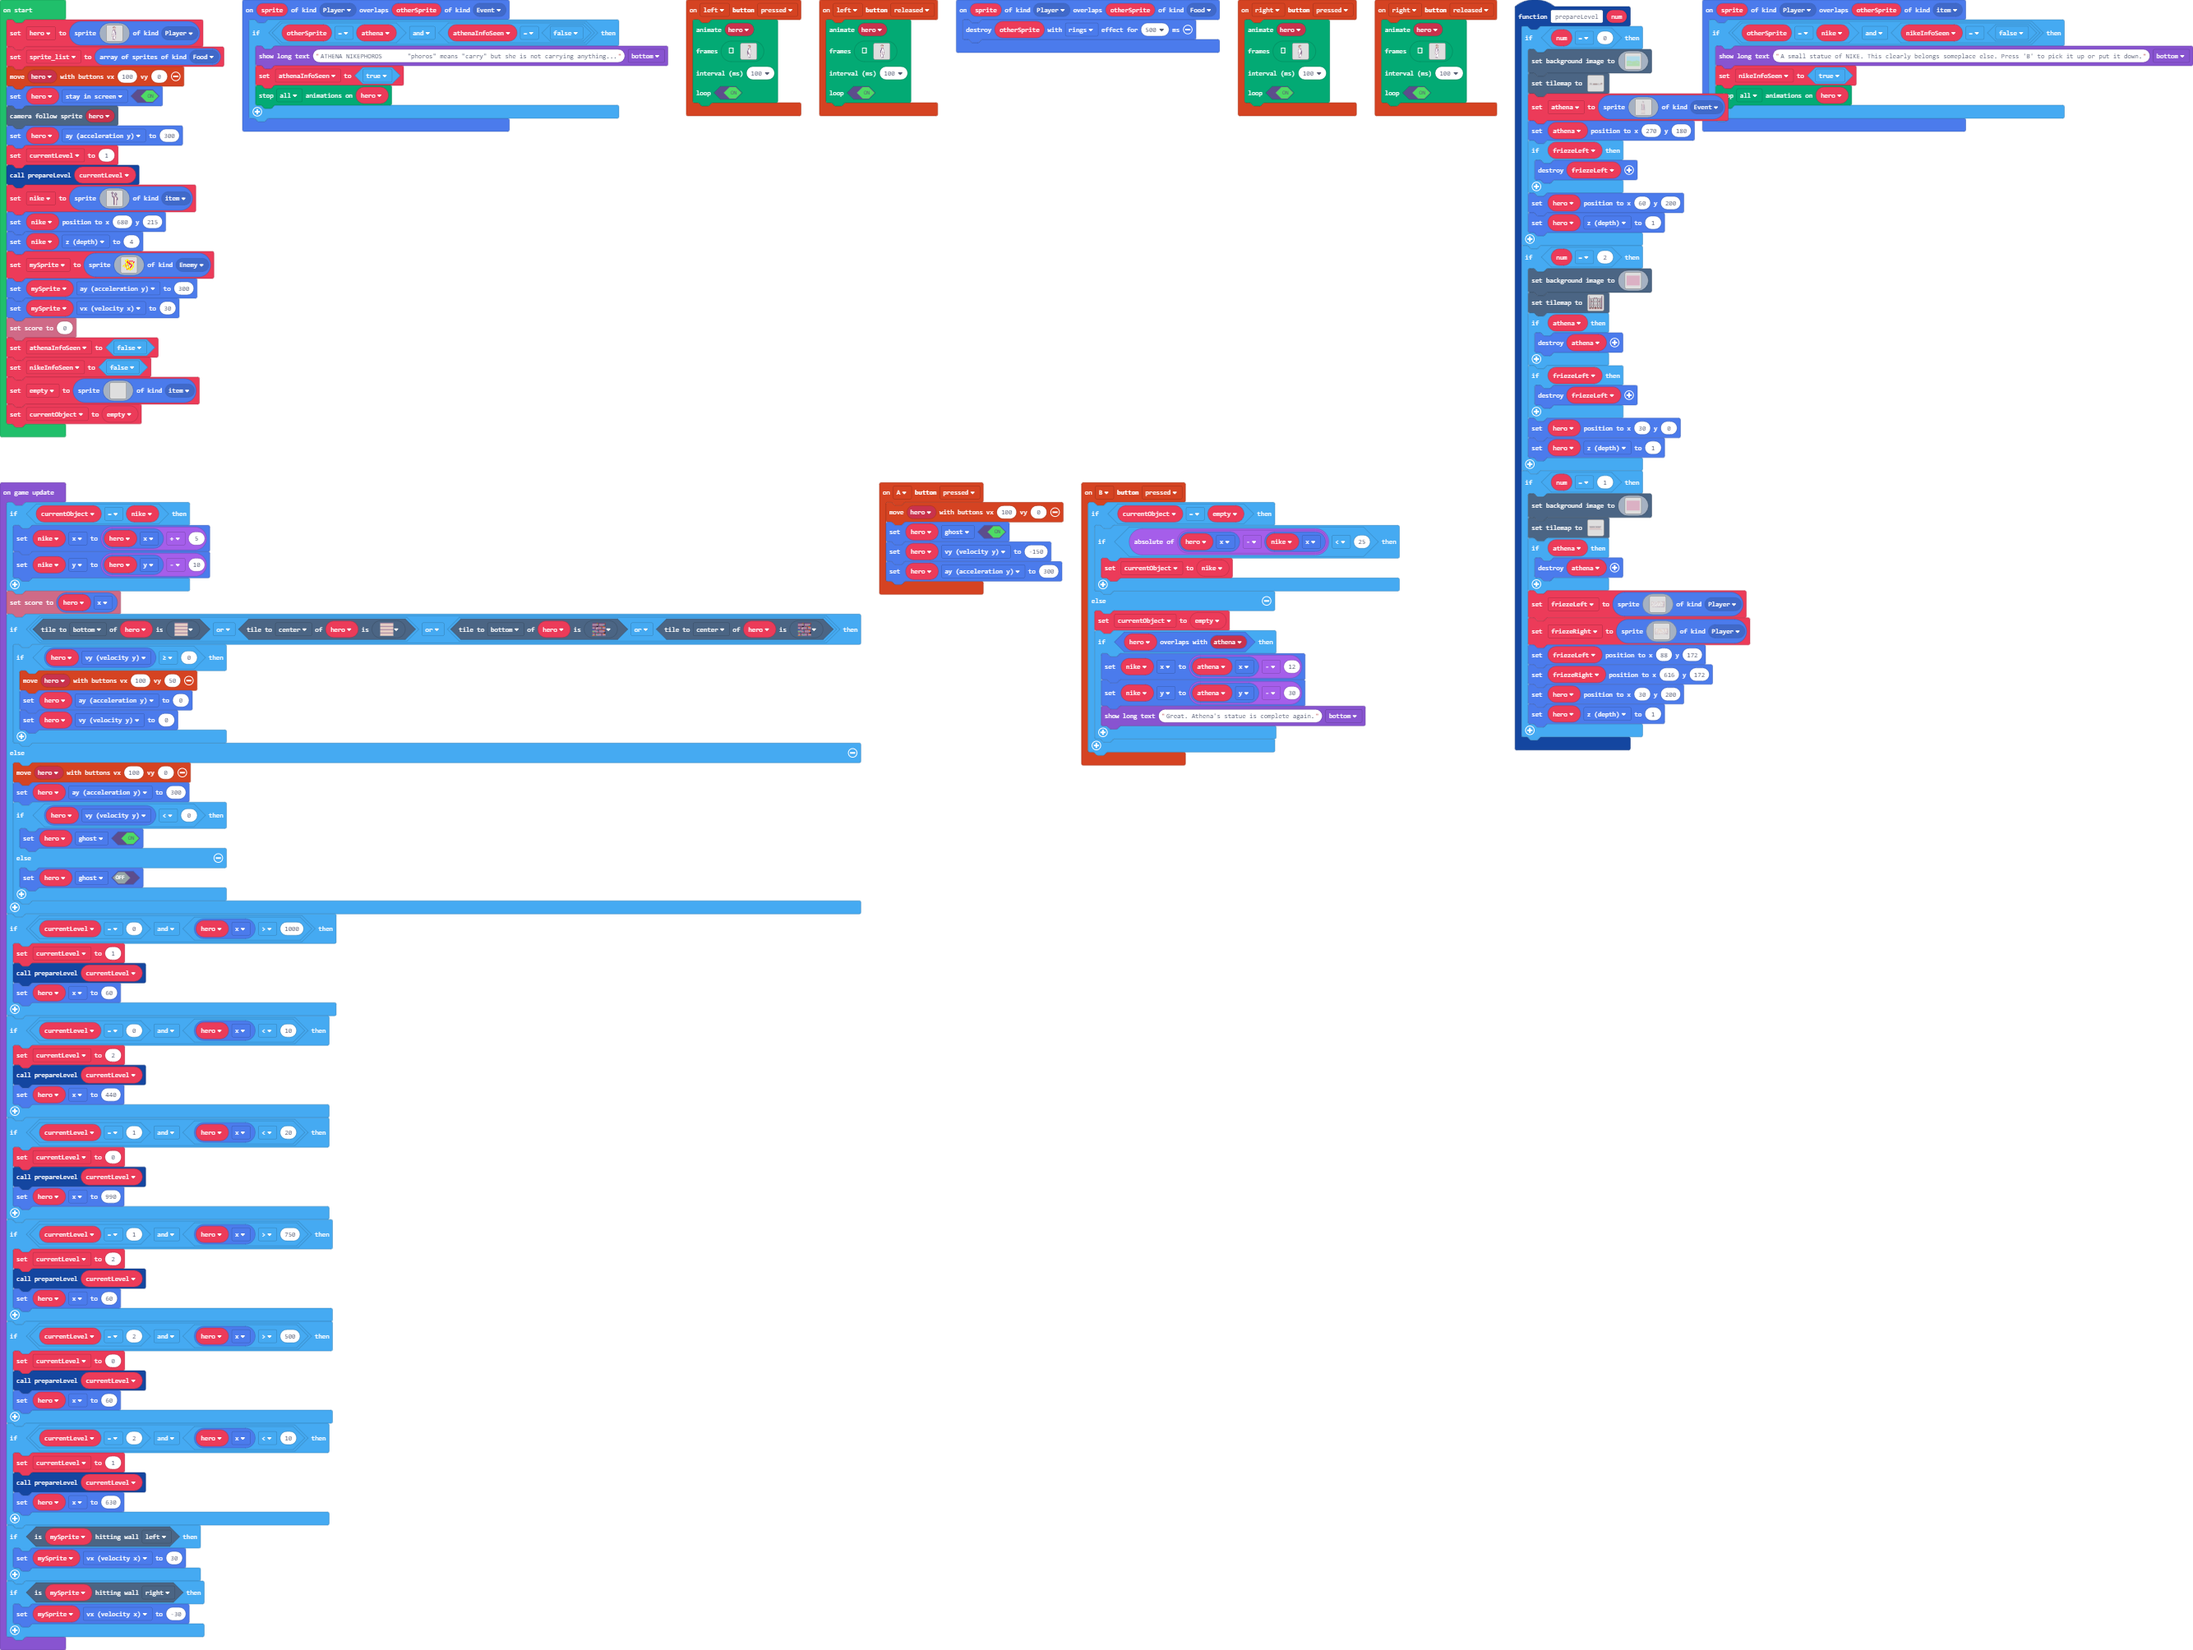
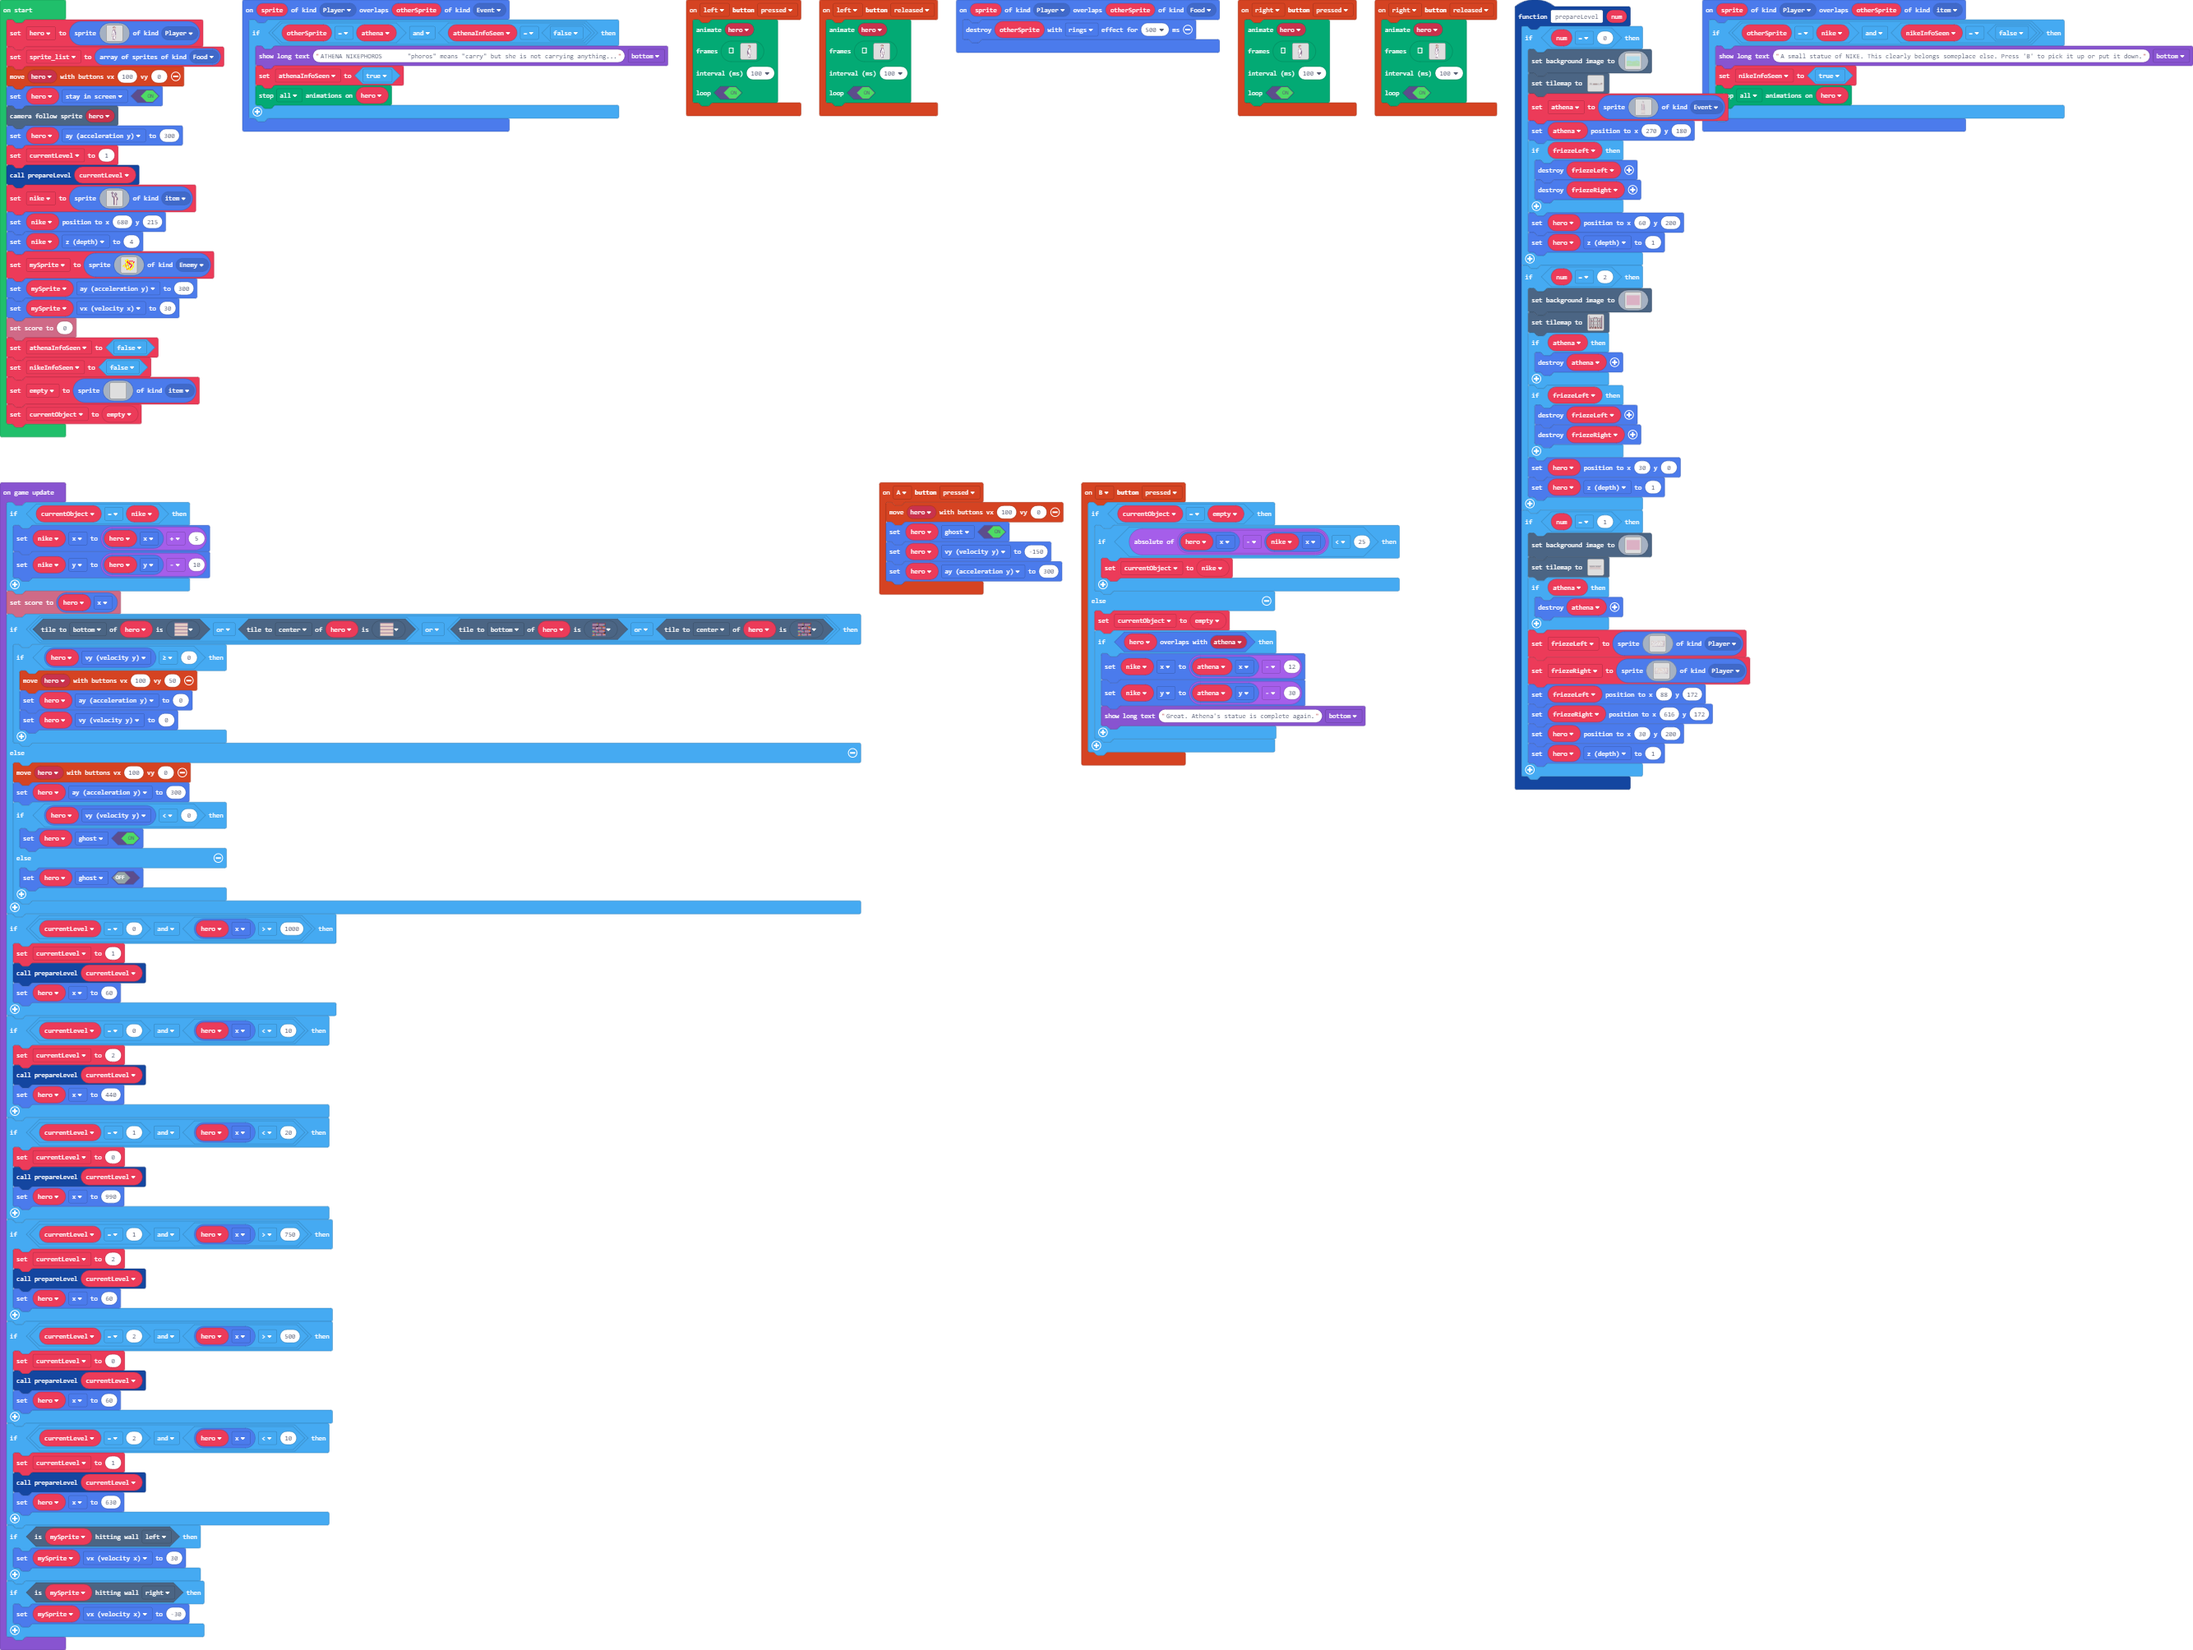
Update main.blocks, main.ts

Changed region(s): [[0.6844, 0.0926, 0.8088, 0.494]]

diff --git a/main.ts b/main.ts
@@ -1887,6 +1887,7 @@ c c c c c c c c c c c c c c c c c c c c c c c c c c c c c c c c
         athena.setPosition(270, 180)
         if (friezeLeft) {
             friezeLeft.destroy()
+            friezeRight.destroy()
         }
         hero.setPosition(60, 200)
         hero.z = 1
@@ -2058,6 +2059,7 @@ c c c c c c c c c c c c c c c c c c c c c c c c c c c c c c c c
         }
         if (friezeLeft) {
             friezeLeft.destroy()
+            friezeRight.destroy()
         }
         hero.setPosition(30, 0)
         hero.z = 1
